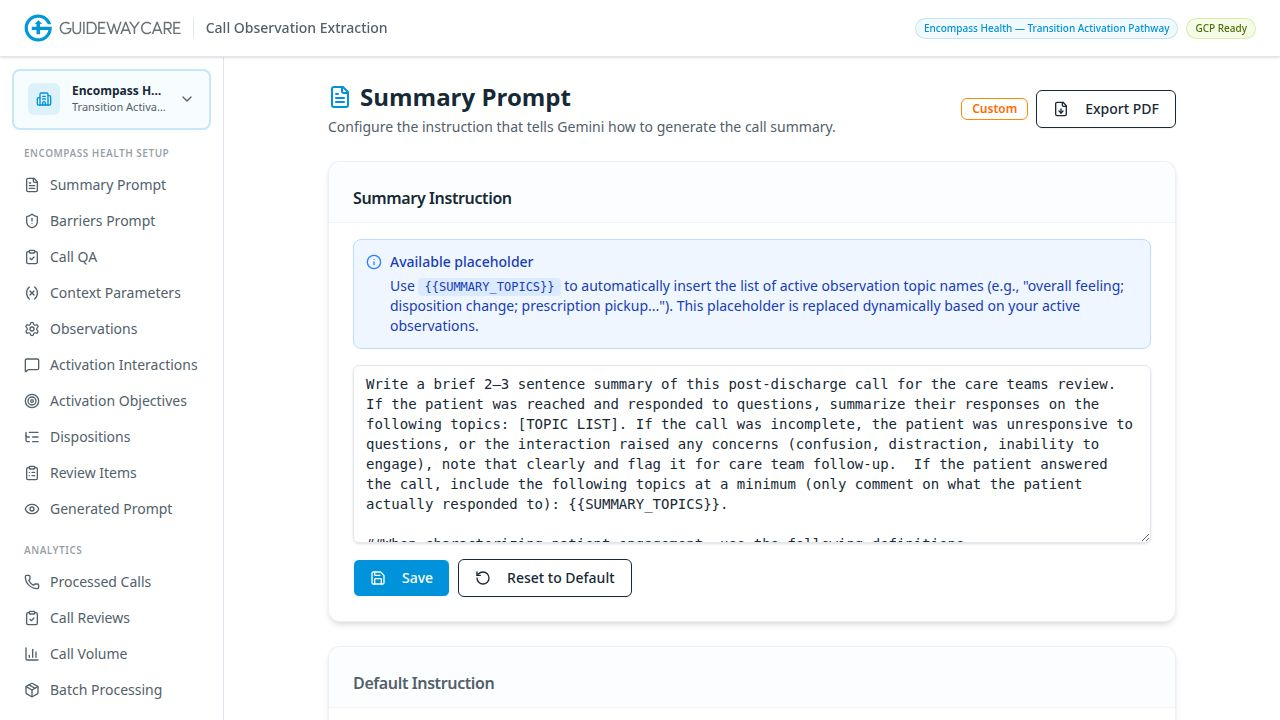
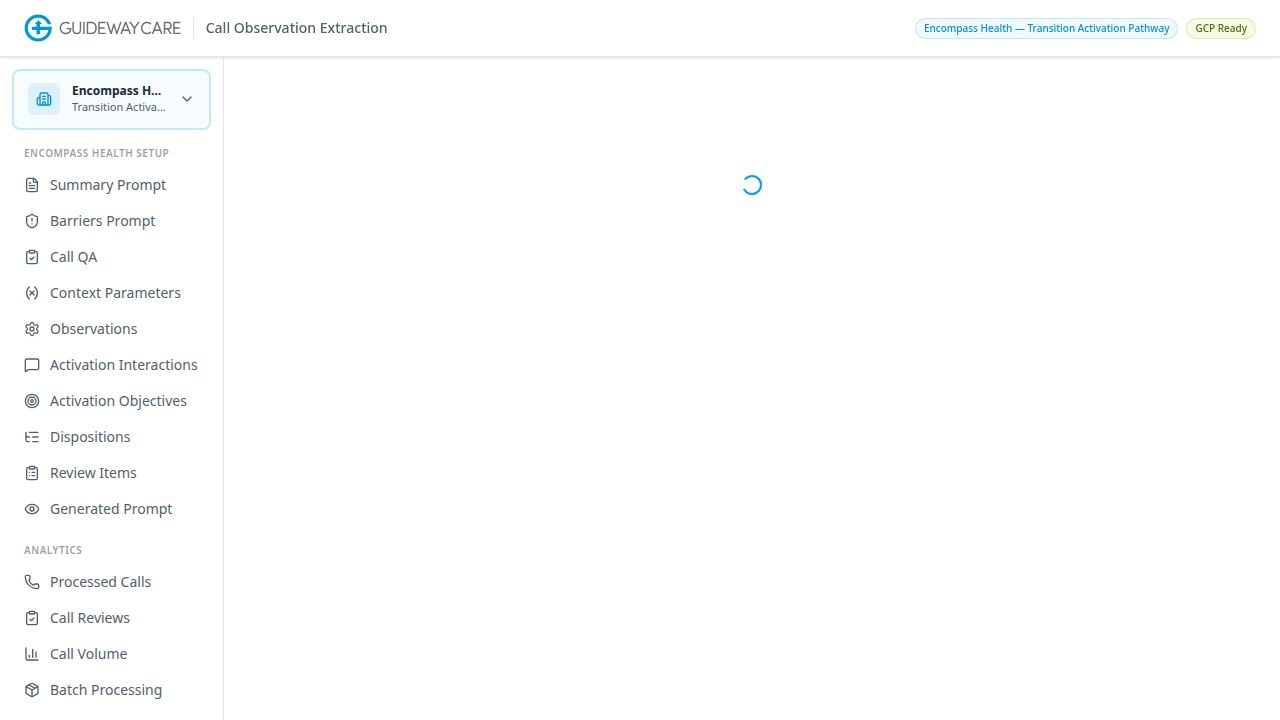
Order transition status by configured display order in prompts
Update prompt instructions in `server/gemini.ts` to ensure transition status topics are output in the order defined by the observation configuration, rather than by discussion status.

Replit-Commit-Author: Agent
Replit-Commit-Session-Id: 424d9a8e-b19d-456f-a04b-17f4d89e9978
Replit-Commit-Checkpoint-Type: full_checkpoint
Replit-Commit-Event-Id: 736d4e7b-be58-40a9-80cd-4f57c12b18de
Replit-Commit-Screenshot-Url: https://storage.googleapis.com/screenshot-production-us-central1/c7e2bf30-0b7c-40d0-8252-ea213ab008ee/424d9a8e-b19d-456f-a04b-17f4d89e9978/XPdFACH
Replit-Helium-Checkpoint-Created: true

diff --git a/server/gemini.ts b/server/gemini.ts
@@ -537,7 +537,7 @@ Your response MUST be valid JSON with exactly this structure:
   "observations": [ <-- EXACTLY ${topicCount} objects, one per row in the reference table above. Iterate rows 1 through ${topicCount} in order. Each name appears ONCE.
 ${observationsSchema}
   ],
-  "transition_status": "A single HTML string covering ALL ${topicCount} observation topics. This value MUST be a valid JSON string. Do NOT start with a quote character. Use inline styles for color-coded status badges. For enum topics, format as: <b>Topic:</b> <span style='INLINE_STYLE'>ENUM_VALUE</span><br>Detail sentence.<br><br> — where ENUM_VALUE is the actual observation value (e.g. 'Fair', 'No Readmission', 'Picked Up', 'Not Discussed') and INLINE_STYLE is the corresponding color style from the mappings below. NEVER use the color name (GREEN, YELLOW, etc.) as the badge text — always use the enum value. For non-enum topics (text, boolean, number), format as: <b>Topic:</b><br>Detail sentence.<br><br> (no status badge needed). Use these exact inline styles for each status type: ${colorStyles} — Status-to-color mappings (use the inline style that corresponds to the enum value): ${statusMappings}. ALWAYS include all ${topicCount} topics. IMPORTANT: Order the topics so that all discussed topics appear first, and any topics with a 'Not Discussed' status are grouped together at the bottom.",
+  "transition_status": "A single HTML string covering ALL ${topicCount} observation topics. This value MUST be a valid JSON string. Do NOT start with a quote character. Use inline styles for color-coded status badges. For enum topics, format as: <b>Topic:</b> <span style='INLINE_STYLE'>ENUM_VALUE</span><br>Detail sentence.<br><br> — where ENUM_VALUE is the actual observation value (e.g. 'Fair', 'No Readmission', 'Picked Up', 'Not Discussed') and INLINE_STYLE is the corresponding color style from the mappings below. NEVER use the color name (GREEN, YELLOW, etc.) as the badge text — always use the enum value. For non-enum topics (text, boolean, number), format as: <b>Topic:</b><br>Detail sentence.<br><br> (no status badge needed). Use these exact inline styles for each status type: ${colorStyles} — Status-to-color mappings (use the inline style that corresponds to the enum value): ${statusMappings}. ALWAYS include all ${topicCount} topics. IMPORTANT: Output the topics in the EXACT order they appear in the OBSERVATION REFERENCE TABLE above (row 1 first, row ${topicCount} last). Do NOT reorder by status — 'Not Discussed' topics must remain in their configured position, not grouped at the bottom.",
   "follow_up_areas": "A single HTML string listing follow-up areas. This value MUST be a valid JSON string. Use <ul> and <li> tags with <b> for topic names. Only include items for topics with problems or gaps. If none, use '<p>No follow-up areas identified.</p>'. Example: <ul><li><b>${activeObservations[0]?.displayName || "Topic"}:</b> Detail about the issue.</li></ul>",
   "qa_pairs": [
     {
@@ -578,7 +578,7 @@ Guidelines:
 - DO NOT HALLUCINATE OR INFER: Only extract information that was explicitly discussed in the transcript. If a specific topic was not directly asked about or answered in the conversation, you MUST mark it as "Not Discussed" — do NOT infer, assume, or guess a value. A greeting, identity confirmation, or unrelated small talk is NOT evidence for any observation topic. The evidence field must contain a direct quote where the topic was specifically addressed. If you cannot find a direct quote about that specific topic, the topic was "Not Discussed".
 - summary: Provide a brief overall summary based on questions asked and the patient's responses. Only comment on what the patient actually responded to. Do not include information the patient did not discuss. Do not summarize topics that were not explicitly asked about.
 - observations: EXACTLY ${topicCount} objects — one per row in the OBSERVATION REFERENCE TABLE above. Iterate rows 1 through ${topicCount} in order. Copy name, display_name, domain, value_type exactly from the table. For value: use the extracted value from the transcript (exact enum label for enum types, or null if not discussed). For detail: write your own 1-2 sentence summary of what was observed — do NOT copy evaluation guidance. For evidence: direct quote, or null if not discussed. For confidence: high/medium/low/null. If a topic was not discussed, set value="Not Discussed", detail="Not discussed.", evidence=null, confidence=null. NEVER output the same observation name twice.${observationsGuidance ? `\n- GENERAL OBSERVATIONS GUIDANCE: ${observationsGuidance}` : ""}
-- transition_status: A single HTML string with EXACTLY ${topicCount} topics — each appears ONCE, no duplicates. Detail text must be original. Use inline style attributes with single quotes for badges (e.g. style='display:inline-block;padding:1px 8px;...'). Badge text = actual enum value, NEVER the color name. Discussed topics first, "Not Discussed" grouped at bottom.
+- transition_status: A single HTML string with EXACTLY ${topicCount} topics — each appears ONCE, no duplicates. Detail text must be original. Use inline style attributes with single quotes for badges (e.g. style='display:inline-block;padding:1px 8px;...'). Badge text = actual enum value, NEVER the color name. Topics MUST appear in the same order as the OBSERVATION REFERENCE TABLE rows above. Do NOT move 'Not Discussed' topics to the bottom.
 - follow_up_areas: Return a single HTML string as a valid JSON string value. Use <ul>/<li> with <b> for topic names. Use single quotes for any HTML attributes. Only include items with issues. If none, return "<p>No follow-up areas identified.</p>".
 - qa_pairs: Extract EVERY question and answer exchange from the transcript, in chronological order. Include ALL exchanges — greetings, identity verification, clinical questions, scheduling, and any other conversation. Each entry should capture the question asked, the answer given, who asked it, and who answered it. Try to match each Q&A to the closest configured observation topic if applicable, setting observation_name and observation_display_name. If a Q&A does not match any configured observation, set those fields to null and still include it. Assign a descriptive category to every Q&A pair. Do not skip any exchanges.
 - barriers: ${barriersGuidance || "Extract ANY barriers to care, recovery, or well-being that the patient or caregiver mentions or that can be identified from the conversation. A barrier is anything that may prevent or hinder the patient from following their care plan, recovering properly, or accessing needed services — such as transportation issues, financial hardship, lack of social support, difficulty understanding instructions, medication access problems, housing instability, caregiver burden, emotional/mental health challenges, physical limitations, or insurance/coverage gaps. Include barriers that are explicitly stated AND those clearly implied from the conversation. Try to link each barrier to the most relevant configured observation if applicable. If no barriers are identified, return an empty array []. Assign a severity (high/medium/low) based on the potential impact on the patient's care outcomes."} IMPORTANT: Each unique barrier should appear ONLY ONCE. Do NOT list the same barrier multiple times even if it relates to multiple observations. Consolidate related issues into a single barrier entry.${(callQAPrompts || []).length > 0 ? `
@@ -885,7 +885,7 @@ Your response MUST be valid JSON with exactly this structure:
   "observations": [ <-- EXACTLY ${topicCount} objects, one per row in the reference table. Each name appears ONCE.
 ${observationsSchema}
   ],
-  "transition_status": "A single HTML string covering ALL ${topicCount} observation topics — each topic appears ONCE, no duplicates. Use inline styles for color-coded status badges. For enum topics: <b>Topic:</b> <span style='INLINE_STYLE'>ENUM_VALUE</span><br>Detail.<br><br>. Use these styles: ${colorStyles} — Mappings: ${statusMappings}. Order discussed topics first, 'Not Discussed' at the bottom.",
+  "transition_status": "A single HTML string covering ALL ${topicCount} observation topics — each topic appears ONCE, no duplicates. Use inline styles for color-coded status badges. For enum topics: <b>Topic:</b> <span style='INLINE_STYLE'>ENUM_VALUE</span><br>Detail.<br><br>. Use these styles: ${colorStyles} — Mappings: ${statusMappings}. Output topics in the EXACT order they appear in the OBSERVATION REFERENCE TABLE above. Do NOT reorder by status — keep 'Not Discussed' topics in their configured position.",
   "follow_up_areas": "A single HTML string listing follow-up areas. Use <ul>/<li> with <b> for topic names. Only include items with issues. If none, use '<p>No follow-up areas identified.</p>'."${buildDispositionJsonField(dispositionConfig)}${activationJsonField}
 }
 